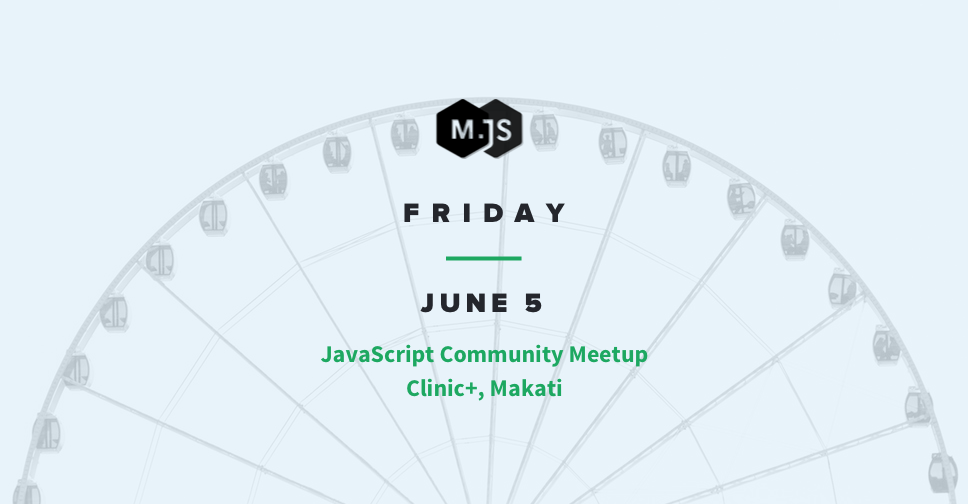
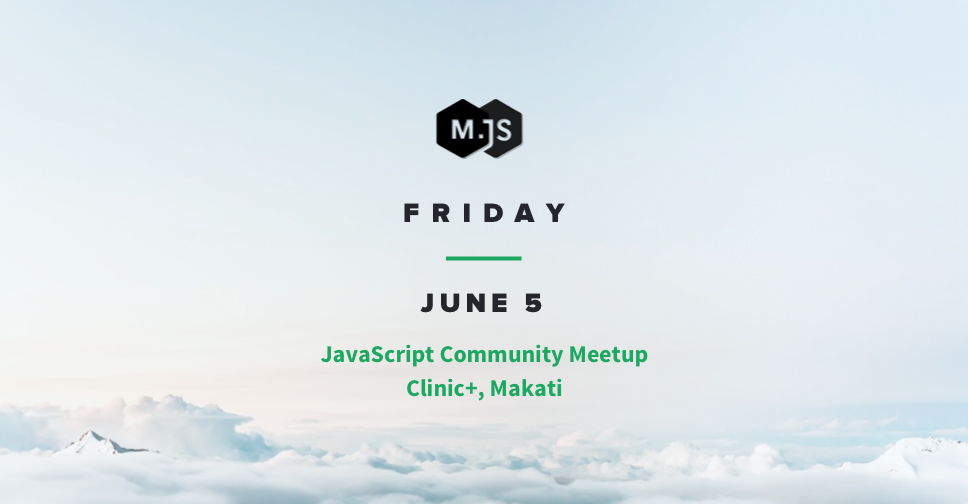
More share images

diff --git a/index.md b/index.md
@@ -3,13 +3,13 @@ layout: event
 
 images:
   - http://manilajs.com/images/share/012-landscape.png
-  - http://manilajs.com/images/share/011-generic.png
-  - http://manilajs.com/images/share/012-testing.png
-  - http://manilajs.com/images/share/012-landscape.png
+  - http://manilajs.com/images/share/012-sky.png
   - http://manilajs.com/images/share/012-white-a.png
-  - http://manilajs.com/images/share/012-white-b.png
-  - http://manilajs.com/images/share/012-see-you-later.png
-  - http://manilajs.com/images/share/012-see-you-later-2.png
+  # - http://manilajs.com/images/share/011-generic.png
+  # - http://manilajs.com/images/share/012-landscape.png
+  # - http://manilajs.com/images/share/012-white-b.png
+  # - http://manilajs.com/images/share/012-see-you-later.png
+  # - http://manilajs.com/images/share/012-see-you-later-2.png
 
 event:
   series: "012"
